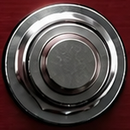
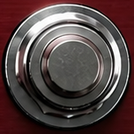
Wharry v1.4.0 : pédale agrandie dans la fenêtre, jacks réduits, IN/OUT gravés sur la tranche, bascule du plateau plus réaliste et synchrone, ligne d'état dans l'écran
Claude-Session: https://claude.ai/code/session_018p7jtS7pR1FwGZkVP7SLek

diff --git a/PluginEditor.cpp b/PluginEditor.cpp
@@ -6,26 +6,27 @@ using namespace juce;
 namespace
 {
     // Repère du dessin = taille de background.png (pédale + marges latérales pour les jacks). Toutes les coordonnées sont dans ces pixels.
-    constexpr int kW = 1240, kH = 928;
-    constexpr int kRefW = 993;                                   // tailles de fenêtre exprimées par rapport à cette largeur (comme Ring Think)
-    const float kScales[3] = { 661.0f / 993.0f, 0.75f, 1.0f };
-    constexpr float kDefaultScale = 661.0f / 993.0f;             // fenêtre par défaut = 661 x 495 px (= taille minimale)
+    // fond recadré au plus près de la pédale ; mêmes hauteurs de fenêtre que Ring Think (495 / 557 / 743 px),
+    // largeur selon les proportions de la pédale -> par défaut 544 x 495, jamais plus grand que Ring Think (661 x 495)
+    constexpr int kW = 1020, kH = 928;
+    constexpr float kRefH = 743.0f;                              // hauteur « 100 % » (= Ring Think à 100 %)
+    const float kScales[3] = { 495.0f / 743.0f, 0.75f, 1.0f };
+    constexpr float kDefaultScale = 495.0f / 743.0f;             // fenêtre par défaut (= taille minimale)
 
     // ---- emplacements des commandes dans le repère 1240 x 928 (générés par tools/design_art.py -> tools/layout.txt) ----
-    constexpr float kLedR = 6.4f;
-    const Point<float> kKnob (720.2f, 288.5f);  constexpr float kKnobR = 59.9f, kCapR = 44.5f;   // sélecteur 21 crans
-    const Point<float> kSmall[3] = { { 723.6f, 498.2f }, { 837.4f, 498.2f }, { 952.1f, 495.6f } };   // GLIDE, TONE, MIX
-    constexpr float kSmallR = 41.1f, kSmallCapR = 31.7f;
+    constexpr float kLedR = 6.6f;
+    const Point<float> kKnob (616.7f, 315.5f);  constexpr float kKnobR = 61.5f, kCapR = 45.7f;   // sélecteur 21 crans
+    const Point<float> kSmall[3] = { { 620.3f, 530.8f }, { 737.1f, 530.8f }, { 854.8f, 528.2f } };   // GLIDE, TONE, MIX
+    constexpr float kSmallR = 42.2f, kSmallCapR = 32.5f;
     const char* const kSmallId[3] = { "smooth", "tone", "mix" };
-    const Rectangle<float> kScreen (810.0f, 174.6f, 213.2f, 241.4f);
-    const Rectangle<float> kFs (770.7f, 642.9f, 130.1f, 130.1f);          // footswitch ON / OFF
-    const Point<float> kFsLed (937.6f, 719.0f);
-    const Rectangle<float> kToggle (953.8f, 91.6f, 53.1f, 37.7f);       // inverseur CLASSIC / CHORDS
+    const Rectangle<float> kScreen (709.0f, 198.7f, 223.2f, 247.7f);
+    const Rectangle<float> kFs (668.6f, 679.3f, 133.5f, 133.5f);          // footswitch ON / OFF
+    const Point<float> kFsLed (839.9f, 757.5f);
+    const Rectangle<float> kToggle (856.6f, 113.5f, 54.5f, 38.6f);       // inverseur CLASSIC / CHORDS
     const Rectangle<float> kToggleHit = kToggle.expanded (14.0f, 22.0f);
-    const Rectangle<float> kPlate (201.4f, 15.4f, 432.3f, 822.6f);   // plateau
-    const Rectangle<float> kStatus (150.0f, 890.0f, 940.0f, 30.0f);                            // ligne d'état sous la pédale
+    const Rectangle<float> kPlate (84.3f, 35.3f, 443.7f, 844.3f);   // plateau
     const Colour kInk (0xffeee6e4), kWarm (0xffffc47a), kCyan (0xff5fe3ff), kScreenBg (0xff081018);
-    constexpr int kFrames = 25;                                                                // positions précalculées du plateau
+    constexpr int kFrames = 33;                                                                // positions précalculées du plateau
 
     Image loadPng (const void* d, int n) { return ImageFileFormat::loadFrom (d, (size_t) n).convertedToFormat (Image::ARGB); }
 
@@ -48,8 +49,8 @@ namespace
     //==========================================================================
     // Plateau de la pédale : il pivote autour de la charnière (côté talon, en bas). Chaque position est une
     // perspective exacte du calque « orteil enfoncé » (pas de fondu entre deux images -> aucun dédoublement).
-    constexpr float kPlateL = 201.4f, kPlateR = 633.7f, kPlateTop = 15.4f, kHingeY = 838.0f;   // plateau à plat (orteil enfoncé)
-    constexpr float kRise = 14.0f, kWiden = 1.06f;                                            // orteil levé : pointe plus haute et plus large
+    constexpr float kPlateL = 84.3f, kPlateR = 528.0f, kPlateTop = 35.3f, kHingeY = 879.6f;   // plateau à plat (orteil enfoncé)
+    constexpr float kRise = 26.0f, kWiden = 1.05f;                                            // orteil levé : pointe plus haute et plus large
 
     struct Homography
     {
@@ -154,6 +155,33 @@ namespace
                 }
             }
             if (lift < 1.0e-4) return plate;
+            // tranche droite du plateau, visible quand la pointe se lève (épaisse côté pointe, nulle à la charnière)
+            {
+                Image::BitmapData bo (plate, Image::BitmapData::readWrite);
+                const double maxFace = 9.0 * sx * lift;
+                const double ty = dstQ[1].y, by = dstQ[2].y;
+                for (int y = jmax (0, (int) std::ceil (ty)); y <= jmin (h - 1, (int) std::floor (by)); ++y)
+                {
+                    const double v = ((double) y - ty) / jmax (1.0, by - ty);          // 0 = pointe, 1 = charnière
+                    const double xr = dstQ[1].x + (dstQ[2].x - dstQ[1].x) * v;
+                    const double fw = maxFace * (1.0 - v);
+                    if (fw < 0.3) continue;
+                    for (int x = (int) std::floor (xr); x <= jmin (w - 1, (int) std::ceil (xr + fw)); ++x)
+                    {
+                        if (x < 0) continue;
+                        const double u = ((double) x - xr) / fw;                     // 0 = arête, 1 = bas de la tranche
+                        if (u < 0.0 || u > 1.0) continue;
+                        auto* px = (PixelARGB*) bo.getPixelPointer (x, y);
+                        const float k = (float) jlimit (0.0, 1.0, std::min (u * fw, (1.0 - u) * fw) + 0.5);   // bords adoucis
+                        const int g0 = (int) (34 + 46 * (1.0 - u) + 25 * (1.0 - v));   // métal sombre, plus clair près de l'arête
+                        // tranche opaque posée par-dessus (pixels prémultipliés : out = tranche * k + existant * (1 - k))
+                        auto mixc = [k] (int a, int b) { return (uint8) jlimit (0, 255, roundToInt ((float) a * k + (float) b * (1.0f - k))); };
+                        PixelARGB o;
+                        o.setARGB (mixc (255, px->getAlpha()), mixc (jmin (255, g0 + 6), px->getRed()), mixc (g0, px->getGreen()), mixc (jmin (255, g0 + 4), px->getBlue()));
+                        *px = o;
+                    }
+                }
+            }
             // ombre portée sous la pointe levée (lumière en haut à gauche -> ombre vers la droite / le bas)
             const int ox = roundToInt (8.0 * sx * lift), oy = roundToInt (11.0 * sy * lift), rad = jmax (1, roundToInt (6.0 * sx));
             std::vector<float> sh ((size_t) (w * h), 0.0f), tmp ((size_t) (w * h), 0.0f);
@@ -241,12 +269,12 @@ namespace
 
     //==========================================================================
     // menu de taille de fenêtre (identique à Ring Think)
-    bool isDefaultSize (const WharryEditor* ed) { return ed != nullptr && std::abs ((float) ed->getWidth() / (float) kRefW - kDefaultScale) < 0.02f; }
+    bool isDefaultSize (const WharryEditor* ed) { return ed != nullptr && std::abs ((float) ed->getHeight() / kRefH - kDefaultScale) < 0.02f; }
 
     void addSizeItems (PopupMenu& m, const WharryEditor* ed)
     {
         const int cur = ed != nullptr ? ed->getScaleIndex() : -1;
-        m.addItem (904, "67 % (default)", true, isDefaultSize (ed));
+        m.addItem (904, "Default (same height as Ring Think)", true, isDefaultSize (ed));
         m.addItem (902, "75 %", true, cur == 1);
         m.addItem (903, "100 %", true, cur == 2);
     }
@@ -329,11 +357,6 @@ public:
         }
 
         drawScreen (g);
-
-        // ---- ligne d'état ----
-        g.setColour (kInk);
-        g.setFont (Font (FontOptions (typeface).withHeight (17.0f * s)));
-        g.drawFittedText (drawnStatus, r (kStatus).toNearestInt(), Justification::centred, 1);
     }
 
     // ------------------------------------------------------------ souris
@@ -498,6 +521,13 @@ private:
         g.setColour (kCyan.withAlpha (0.95f * alpha));
         g.drawText (val, area.removeFromTop (fh * 0.1f), Justification::centred);
 
+        // ligne d'état (valeurs des réglages en direct, ou consigne de MIDI learn)
+        auto stRow = area.removeFromBottom (fh * 0.075f);
+        g.setFont (Font (FontOptions (typeface).withHeight (fh * 0.056f)));
+        g.setColour (kCyan.withAlpha (proc.getLearnTarget() != MidiTarget::None ? 1.0f : 0.7f * alpha));
+        g.drawFittedText (drawnStatus, stRow.toNearestInt(), Justification::centred, 1, 0.5f);
+        area.removeFromBottom (fh * 0.02f);
+
         // barres : position de la pédale
         auto bars = area.reduced (0, fh * 0.015f);
         const float tp = jlimit (0.0f, 1.0f, drawnPedal);
@@ -518,15 +548,14 @@ private:
     {
         const auto learn = proc.getLearnTarget();
         if (learn == MidiTarget::Pedal)   return "MIDI LEARN : move your expression pedal";
-        if (learn == MidiTarget::LeftFsw) return "MIDI LEARN : press the switch / footswitch for CLASSIC - CHORDS";
-        if (learn == MidiTarget::RightFsw)return "MIDI LEARN : press the footswitch for ON - OFF";
-        const auto& pr = wharry::program (currentProgram());
+        if (learn == MidiTarget::LeftFsw) return "MIDI LEARN : CLASSIC / CHORDS switch";
+        if (learn == MidiTarget::RightFsw)return "MIDI LEARN : ON / OFF footswitch";
         auto pc = [this] (const char* id) { return String (roundToInt (proc.apvts.getParameter (id)->getValue() * 100.0f)) + " %"; };
-        String st = String (pr.label) + "   |   PEDAL " + String (roundToInt (proc.getPedalShown() * 100.0f)) + " %"
-                  + "   |   GLIDE " + String (roundToInt (proc.apvts.getRawParameterValue ("smooth")->load())) + " ms"
-                  + "   |   TONE " + pc ("tone") + "   |   MIX " + pc ("mix");
+        String st = "PEDAL " + String (roundToInt (proc.getPedalShown() * 100.0f)) + " %"
+                  + "  ·  GLIDE " + String (roundToInt (proc.apvts.getRawParameterValue ("smooth")->load())) + " ms"
+                  + "  ·  TONE " + pc ("tone") + "  ·  MIX " + pc ("mix");
         if (param ("chords") && param ("studio") && proc.getLatency() > 0)
-            st << "   |   LATENCY " << String (roundToInt (1000.0 * proc.getLatency() / jmax (1.0, proc.getSampleRate()))) << " ms";
+            st << "  ·  " << String (roundToInt (1000.0 * proc.getLatency() / jmax (1.0, proc.getSampleRate()))) << " ms";
         return st;
     }
 
@@ -567,8 +596,8 @@ private:
                 repaint (r (Rectangle<float> (kSmall[i].x - kSmallR, kSmall[i].y - kSmallR, 2 * kSmallR, 2 * kSmallR)).toNearestInt().expanded (2));
             }
         }
+        if (st != drawnStatus) { drawnStatus = st; screen = true; }
         if (screen) repaint (r (kScreen).toNearestInt().expanded (2));
-        if (st != drawnStatus) { drawnStatus = st; repaint (r (kStatus).toNearestInt().expanded (2)); }
     }
     Rectangle<int> ledArea (Point<float> c) const { const float h = kLedR * 3.8f; return r (Rectangle<float> (c.x - h, c.y - h, 2 * h, 2 * h)).toNearestInt().expanded (1); }
 
@@ -649,7 +678,7 @@ private:
     ScaledCache bg, fsOn, fsOff, tgL, tgR;
     TreadleWarp treadle;
     Typeface::Ptr typeface, typefaceBold;
-    float s = kDefaultScale * (float) kRefW / (float) kW;
+    float s = kDefaultScale * kRefH / (float) kH;
 
     Drag drag = Drag::None;
     float dragStartY = 0, dragStartVal = 0;
@@ -668,9 +697,9 @@ WharryEditor::WharryEditor (WharryProcessor& p) : AudioProcessorEditor (&p), pro
     view = std::make_unique<PedalView> (proc);
     addAndMakeVisible (*view);
     setResizable (true, true);
-    const int minW = (int) std::lround (kRefW * kDefaultScale);          // jamais plus petit que la taille par défaut
-    const int maxW = 1500;
-    setResizeLimits (minW, (int) std::lround ((double) minW * kH / kW), maxW, (int) std::lround ((double) maxW * kH / kW));
+    const int minH = (int) std::lround (kRefH * kDefaultScale);          // jamais plus petit que la taille par défaut
+    const int maxH = 1120;
+    setResizeLimits ((int) std::lround ((double) minH * kW / kH), minH, (int) std::lround ((double) maxH * kW / kH), maxH);
     getConstrainer()->setFixedAspectRatio ((double) kW / (double) kH);
     setScaleIndex (jlimit (-1, 2, proc.uiScaleIdx.load()));
 }
@@ -702,7 +731,7 @@ void WharryEditor::resized()
 
 int WharryEditor::getScaleIndex() const
 {
-    const float sc = (float) getWidth() / (float) kRefW;
+    const float sc = (float) getHeight() / kRefH;
     for (int i = 1; i < 3; ++i) if (std::abs (sc - kScales[i]) < 0.02f) return i;
     return -1;
 }
@@ -713,6 +742,6 @@ void WharryEditor::setScaleIndex (int idx)
     if (idx == 0) idx = -1;
     proc.uiScaleIdx = idx;
     const float sc = idx < 0 ? kDefaultScale : kScales[idx];
-    const int w = (int) std::lround (kRefW * sc);
-    setSize (w, (int) std::lround ((double) w * kH / kW));
+    const int h = (int) std::lround (kRefH * sc);
+    setSize ((int) std::lround ((double) h * kW / kH), h);
 }

diff --git a/tools/design_art.py b/tools/design_art.py
@@ -1,8 +1,8 @@
 # Wharry : prépare les images du plugin à partir du design de l'utilisateur (design/wharry_design_source.png, 1390 x 1132)
-#   background.png   : fond 1240 x 928 (textes réécrits, LED / écran vidés, logo Studio Wiga, jacks Studio Wiga)
+#   background.png   : fond 1020 x 928 (textes réécrits, LED / écran vidés, logo Studio Wiga, jacks Studio Wiga)
 #   treadle_down.png : calque du plateau à plat (orteil enfoncé) ; le plugin calcule les autres positions en perspective
 #   fs_on.png / fs_off.png, toggle_r.png / toggle_l.png : sprites des commandes
-#   tools/layout.txt : coordonnées des commandes dans le repère 1240 x 928 (reprises dans PluginEditor.cpp)
+#   tools/layout.txt : coordonnées des commandes dans le repère 1020 x 928 (reprises dans PluginEditor.cpp)
 #   design/apercu_treadle_up.png : aperçu de la position orteil levé
 import os, math
 import numpy as np, cv2
@@ -12,16 +12,17 @@ ROOT = os.path.dirname(os.path.dirname(os.path.abspath(__file__)))
 src = Image.open(os.path.join(ROOT, "design", "wharry_design_source.png")).convert("RGB")
 A = np.array(src)
 
-W, H = 1240, 928
-CX0, CY0, CX1, CY1 = 158, 40, 1226, 1062          # zone utile du design
-S = 0.856
+# fond recadré au plus près de la pédale : la pédale occupe toute la hauteur de la fenêtre
+W, H = 1020, 928
+CX0, CY0, CX1, CY1 = 160, 45, 1215, 1058          # contour de la pédale dans le design
+OY = 30.0                                          # marge haute : place pour la pointe du plateau levée
+S = (H - OY - 8.0) / (CY1 - CY0)
 OX = (W - (CX1 - CX0) * S) / 2.0
-OY = 6.0
 def C(x, y): return (OX + (x - CX0) * S, OY + (y - CY0) * S)
 
 # ---------- 0) éléments déplacés ----------
 KNOB_OLD, KNOB_NEW, KNOB_RS = (821, 258), (808, 378), 76          # sélecteur : centré verticalement sur l'écran, à sa gauche
-SCR_OUT = (905, 228, 1172, 528)                                   # écran agrandi (cadre extérieur)
+SCR_OUT = (905, 228, 1177, 528)                                   # écran agrandi (cadre extérieur)
 kyy, kxx = np.mgrid[0:2 * KNOB_RS, 0:2 * KNOB_RS]
 ka = np.clip((KNOB_RS - 5.0 - np.hypot(kxx - KNOB_RS + 0.5, kyy - KNOB_RS + 0.5)) / 2.0, 0, 1)
 knob_rgb = A[KNOB_OLD[1] - KNOB_RS:KNOB_OLD[1] + KNOB_RS, KNOB_OLD[0] - KNOB_RS:KNOB_OLD[0] + KNOB_RS]
@@ -59,6 +60,10 @@ yy2, xx2 = np.mgrid[reg[1]:reg[3], reg[0]:reg[2]]
 glow = cv2.dilate(glow, np.ones((11, 11), np.uint8))
 glow[np.hypot(xx2 - 822, yy2 - 250) < 77] = 0           # épargne le bouton
 mask[reg[1]:reg[3], reg[0]:reg[2]] |= glow
+reg2 = (1000, 810, 1130, 940)                      # halo de la LED du footswitch
+R1 = A[reg2[1]:reg2[3], reg2[0]:reg2[2]].astype(np.int32)
+g2 = (((R1[..., 1] - R1[..., 2]) > 4) & (R1[..., 0] > 120)).astype(np.uint8) * 255
+mask[reg2[1]:reg2[3], reg2[0]:reg2[2]] |= cv2.dilate(g2, np.ones((13, 13), np.uint8))
 inpainted = cv2.inpaint(A, mask, 6, cv2.INPAINT_TELEA)
 
 # zone du sélecteur (anciennes LED, halos, étiquettes) : panneau brossé reconstruit =
@@ -126,9 +131,9 @@ box = (round(sx0 + PAD), round(sy0 + PAD), round(sx0 + PAD + W / S), round(sy0 +
 canvas = Image.fromarray(ext).crop(box).resize((W, H), Image.LANCZOS).convert("RGBA")
 
 jo = Image.open(os.path.join(ROOT, "embase_jack_gauche_OUT.png")); ji = Image.open(os.path.join(ROOT, "embase_jack_droite_IN.png"))
-js = 0.62
+js = 0.40
 jo = jo.resize((round(jo.width * js), round(jo.height * js)), Image.LANCZOS); ji = ji.resize((round(ji.width * js), round(ji.height * js)), Image.LANCZOS)
-lx, _ = C(166, 0); rx, _ = C(1212, 0); _, jy = C(0, 560)
+lx, _ = C(166, 0); rx, _ = C(1209, 0); _, jy = C(0, 560)
 canvas.alpha_composite(jo, (round(lx - jo.width + 3), round(jy - jo.height / 2)))
 canvas.alpha_composite(ji, (round(rx - 3), round(jy - ji.height / 2)))
 
@@ -155,8 +160,17 @@ logo = Image.open(os.path.join(ROOT, "logo_studio_wiga_blanc.png")).convert("RGB
 lw = round(172 * S); logo = logo.resize((lw, round(lw * logo.height / logo.width)), Image.LANCZOS)
 la = np.array(logo).astype(np.float32); la[..., :3] = INK[:3]; logo = Image.fromarray(la.astype(np.uint8))
 px, py = C(730, 101); canvas.alpha_composite(logo, (round(px), round(py - logo.height / 2)))
-txt(185, 560, "OUT", 15, FM, "mm")
-txt(1180, 560, "IN", 15, FM, "mm")
+# IN / OUT : gravés sur la tranche de la façade, juste à côté de chaque jack (lecture de bas en haut)
+def side_label(x, y, s_):
+    f = ImageFont.truetype(FM, round(24 * S))
+    tw = int(f.getlength(s_)) + 8; th = round(34 * S)
+    im = Image.new("RGBA", (tw, th), (0, 0, 0, 0))
+    ImageDraw.Draw(im).text((tw / 2, th / 2), s_, font=f, fill=INK, anchor="mm")
+    im = im.rotate(90, expand=True, resample=Image.BICUBIC)
+    px, py = C(x, y)
+    canvas.alpha_composite(im, (round(px - im.width / 2), round(py - im.height / 2)))
+side_label(186, 560, "OUT")
+side_label(1189, 560, "IN")
 canvas.save(os.path.join(ROOT, "background.png"))
 
 # ---------- 4) calque du plateau ----------

diff --git a/PluginProcessor.h b/PluginProcessor.h
@@ -53,7 +53,13 @@ public:
     void setParamValue (const juce::String& id, float plainValue);
     void togglePedalSwitch (const juce::String& id);
 
-    float getPedalShown() const   { return pedalShown.load(); }    // position lissée de la pédale (0 = haute, 1 = basse)
+    // position lissée de la pédale (0 = haute, 1 = basse) : celle du moteur audio, ou la consigne directe si l'audio
+    // ne tourne pas (transport arrêté, plugin suspendu) -> le visuel suit toujours la pédale MIDI et les automations
+    float getPedalShown() const
+    {
+        const auto now = juce::Time::getMillisecondCounter();
+        return (now - lastBlockMs.load() > 250u) ? pedalLive.load() : pedalShown.load();
+    }
     float getSemitones() const    { return semis.load(); }
     float getDetectedHz() const   { return detHz.load(); }
     int   getLatency() const      { return reportedLatency.load(); }
@@ -84,6 +90,7 @@ private:
 
     std::atomic<float> pedalLive { 0.0f }, pedalShown { 0.0f }, semis { 0.0f }, detHz { 0.0f };
     std::atomic<int> reportedLatency { 0 }, latencyToSet { -1 };
+    std::atomic<juce::uint32> lastBlockMs { 0 };
     std::atomic<int> learnTarget { 0 }, ccPedal { 11 }, ccLeft { -1 }, noteLeft { -1 }, ccRight { -1 }, noteRight { -1 };
     std::atomic<bool> leftHeld { false }, rightHeld { false };
 

diff --git a/tools/render/main.cpp b/tools/render/main.cpp
@@ -24,6 +24,7 @@ int main (int argc, char** argv)
     };
     shot ("wharry_haute", 0.0f, 1, false, true);
     shot ("wharry_milieu", 0.5f, 1, false, true);
+    shot ("wharry_quart", 0.25f, 1, false, true);
     shot ("wharry_basse", 1.0f, 15, true, true);
     shot ("wharry_bypass", 0.3f, 3, false, false);
     static_cast<WharryEditor*> (ed.get())->setScaleIndex (2);

diff --git a/PluginProcessor.cpp b/PluginProcessor.cpp
@@ -219,6 +219,7 @@ void WharryProcessor::processBlock (AudioBuffer<float>& buffer, MidiBuffer& midi
     for (int c = 0; c < nOut; ++c) buffer.copyFrom (c, 0, m, n);
 
     pedalShown = engine.smoothedPedal();
+    lastBlockMs = Time::getMillisecondCounter();
     semis = engine.currentSemitones();
     detHz = engine.detectedHz();
 

diff --git a/README.md b/README.md
@@ -1,7 +1,7 @@
 # Wharry (Studio Wiga)
 
 Plugin VST3 (Windows / macOS, + AU sur Mac) reproduisant le fonctionnement de la pédale DigiTech Whammy 5,
-au format **pédale double** (fenêtre identique à Ring Think : 661 x 495 par défaut et au minimum, 75 %, 100 %).
+au format **pédale double** (fenêtre aux hauteurs de Ring Think : 544 x 495 par défaut et au minimum, puis 75 % et 100 %).
 
 - 21 programmes : 10 Whammy, 2 Detune, 9 Harmony (ordre du sélecteur = Program Change 1 à 21)
 - **CLASSIC** (notes seules, réactif, caractère Whammy) / **CHORDS** (accords, sans latence) ; option CHORDS **Studio HQ** (vocodeur de phase, latence annoncée au DAW)
